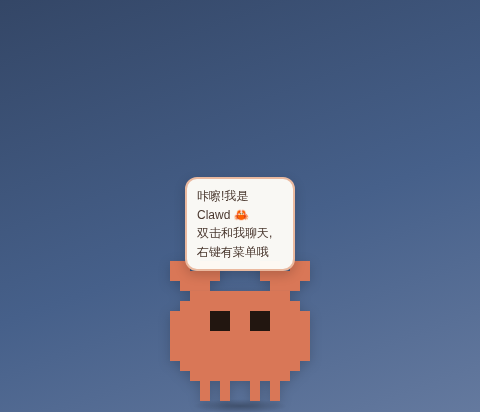
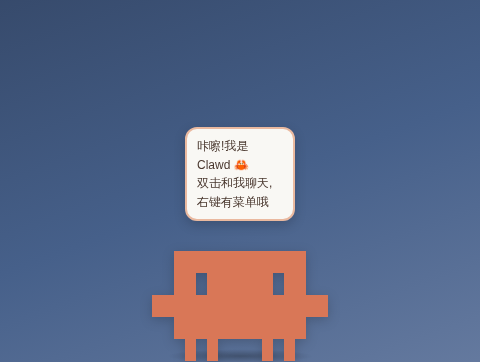
造型改为官方原版:1:1 复刻 Claude Code 启动画面字符画
- 将官方 Unicode 半格字符画( ▐▛███▜▌ / ▝▜█████▛▘ / ▘▘ ▝▝ )逐格展开为
  18x5 亚格像素图,保留终端 1:2 亚格宽高比,零改动
- 眼睛保留原版负空间缺口;眨眼/睡觉用同色眼皮盖住缺口,不改造型
- 移除此前自创的蟹钳/方块眼等元素;托盘图标同步为官方像素图
- 更新 README 与截图

Claude-Session: https://claude.ai/code/session_01Mf4oSzVMUmaVxkpLH53Hpv

Changed region(s): [[0.3125, 0.3343, 0.6875, 1.0]]

diff --git a/renderer/index.html b/renderer/index.html
@@ -16,65 +16,42 @@
 
     <div id="shadow"></div>
 
-    <!-- Clawd:Claude Code 的经典 8-bit 像素螃蟹 🦀
-         网格 16x14,每格 10px,viewBox 160x140 -->
+    <!-- 官方 Clawd:Claude Code 启动画面的原版字符画
+            ▐▛███▜▌
+           ▝▜█████▛▘
+             ▘▘ ▝▝
+         逐格展开为 18x5 亚格网格(终端半格字符,亚格宽高比 1:2),
+         每亚格 12x24,viewBox 216x120。眼睛是原版的负空间缺口,不加任何东西。 -->
     <div id="pet" class="interactive">
-      <svg id="pet-svg" viewBox="0 0 160 140" xmlns="http://www.w3.org/2000/svg"
+      <svg id="pet-svg" viewBox="0 0 216 120" xmlns="http://www.w3.org/2000/svg"
            shape-rendering="crispEdges">
         <g fill="#D97757">
-          <!-- 两只钳子(带开口的像素蟹钳) -->
-          <g id="claws">
-            <rect x="10"  y="0"  width="20" height="10" />
-            <rect x="40"  y="0"  width="20" height="10" />
-            <rect x="10"  y="10" width="50" height="10" />
-            <rect x="20"  y="20" width="30" height="10" />
-            <rect x="100" y="0"  width="20" height="10" />
-            <rect x="130" y="0"  width="20" height="10" />
-            <rect x="100" y="10" width="50" height="10" />
-            <rect x="110" y="20" width="30" height="10" />
-          </g>
-
-          <!-- 身体(圆角像素块) -->
           <g id="body-px">
-            <rect x="30" y="30"  width="100" height="10" />
-            <rect x="20" y="40"  width="120" height="10" />
-            <rect x="10" y="50"  width="140" height="50" />
-            <rect x="20" y="100" width="120" height="10" />
-            <rect x="30" y="110" width="100" height="10" />
+            <!-- 行0:头顶  ▐▛███▜▌ 的上半 -->
+            <rect x="36" y="0" width="144" height="24" />
+            <!-- 行1:脸,两个眼睛缺口(▛▜ 的缺角)在 x=60 和 x=144 -->
+            <rect x="36"  y="24" width="24" height="24" />
+            <rect x="72"  y="24" width="72" height="24" />
+            <rect x="156" y="24" width="24" height="24" />
+            <!-- 行2:最宽的一行,两侧探出的小钳尖(▝ 和 ▘) -->
+            <rect x="12" y="48" width="192" height="24" />
+            <!-- 行3:身体下沿 -->
+            <rect x="36" y="72" width="144" height="24" />
           </g>
 
-          <!-- 四只小短腿 -->
+          <!-- 行4:四只小脚  ▘▘ ▝▝ -->
           <g id="legs">
-            <rect x="40"  y="120" width="10" height="20" />
-            <rect x="60"  y="120" width="10" height="20" />
-            <rect x="90"  y="120" width="10" height="20" />
-            <rect x="110" y="120" width="10" height="20" />
+            <rect x="48"  y="96" width="12" height="24" />
+            <rect x="72"  y="96" width="12" height="24" />
+            <rect x="132" y="96" width="12" height="24" />
+            <rect x="156" y="96" width="12" height="24" />
           </g>
-        </g>
 
-        <!-- 脸(叠在身体上) -->
-        <g id="face" fill="#221610">
-          <!-- 默认方块眼 -->
-          <g id="eyes">
-            <rect class="eye" x="50" y="50" width="20" height="20" />
-            <rect class="eye" x="90" y="50" width="20" height="20" />
+          <!-- 眨眼/睡觉:用身体同色把眼睛缺口盖住(= 闭眼),不改变造型 -->
+          <g id="eyelids">
+            <rect x="60"  y="24" width="12" height="24" />
+            <rect x="144" y="24" width="12" height="24" />
           </g>
-          <!-- 开心眯眼 > < -->
-          <g id="happy-eyes">
-            <rect x="50" y="50" width="10" height="10" />
-            <rect x="60" y="60" width="10" height="10" />
-            <rect x="50" y="70" width="10" height="10" />
-            <rect x="100" y="50" width="10" height="10" />
-            <rect x="90"  y="60" width="10" height="10" />
-            <rect x="100" y="70" width="10" height="10" />
-          </g>
-          <!-- 睡觉的一字眼 -->
-          <g id="sleep-eyes">
-            <rect x="40" y="60" width="30" height="10" />
-            <rect x="90" y="60" width="30" height="10" />
-          </g>
-          <!-- 被拎起来时的 o 嘴(惊讶) -->
-          <rect id="mouth-o" x="70" y="85" width="20" height="10" />
         </g>
       </svg>
     </div>

diff --git a/scripts/gen-icon.js b/scripts/gen-icon.js
@@ -1,39 +1,34 @@
 // 生成 assets/icon.png(托盘 / 窗口图标)—— 零依赖,纯 Node 实现
-// 图案:Clawd,Claude Code 的经典 8-bit 像素螃蟹 🦀
+// 图案:官方 Clawd,Claude Code 启动画面字符画的逐格展开:
+//    ▐▛███▜▌
+//   ▝▜█████▛▘
+//     ▘▘ ▝▝
 // 用法:node scripts/gen-icon.js
 
 const zlib = require('zlib');
 const fs = require('fs');
 const path = require('path');
 
-// 与 renderer/index.html 中的 SVG 同一张 16x14 像素图
-// X = 橙色身体,E = 黑色眼睛,. = 透明
+// 与 renderer/index.html 中的 SVG 同一张 18x5 亚格图
+// X = 橙色,. = 透明(眼睛是原版的负空间缺口)
 const GRID = [
-  '.XX.XX....XX.XX.',
-  '.XXXXX....XXXXX.',
-  '..XXX......XXX..',
-  '...XXXXXXXXXX...',
-  '..XXXXXXXXXXXX..',
-  '.XXXXEEXXEEXXXX.',
-  '.XXXXEEXXEEXXXX.',
-  '.XXXXXXXXXXXXXX.',
-  '.XXXXXXXXXXXXXX.',
-  '.XXXXXXXXXXXXXX.',
-  '..XXXXXXXXXXXX..',
-  '...XXXXXXXXXX...',
-  '....X.X..X.X....',
-  '....X.X..X.X....',
+  '...XXXXXXXXXXXX...',
+  '...XX.XXXXXX.XX...',
+  '.XXXXXXXXXXXXXXXX.',
+  '...XXXXXXXXXXXX...',
+  '....X.X....X.X....',
 ];
 
-const CELL = 4;                       // 每格 4px
-const W = GRID[0].length * CELL;      // 64
-const H = GRID.length * CELL;         // 56
+// 终端半格字符的亚格宽高比是 1:2
+const CELL_W = 3;
+const CELL_H = 6;
+const W = GRID[0].length * CELL_W;    // 54
+const H = GRID.length * CELL_H;       // 30
 const SIZE = 64;                      // 画布 64x64,居中
 const OFF_X = Math.floor((SIZE - W) / 2);
 const OFF_Y = Math.floor((SIZE - H) / 2);
 
 const ORANGE = [217, 119, 87, 255]; // #D97757
-const DARK = [34, 22, 16, 255];     // 眼睛
 const NONE = [0, 0, 0, 0];
 
 // ---------- 最小 PNG 编码器 ----------
@@ -100,13 +95,10 @@ function encodePNG(width, height, rgba) {
 const rgba = Buffer.alloc(SIZE * SIZE * 4);
 
 function colorAt(px, py) {
-  const gx = Math.floor((px - OFF_X) / CELL);
-  const gy = Math.floor((py - OFF_Y) / CELL);
+  const gx = Math.floor((px - OFF_X) / CELL_W);
+  const gy = Math.floor((py - OFF_Y) / CELL_H);
   if (gy < 0 || gy >= GRID.length || gx < 0 || gx >= GRID[0].length) return NONE;
-  const ch = GRID[gy][gx];
-  if (ch === 'X') return ORANGE;
-  if (ch === 'E') return DARK;
-  return NONE;
+  return GRID[gy][gx] === 'X' ? ORANGE : NONE;
 }
 
 for (let y = 0; y < SIZE; y++) {

diff --git a/renderer/style.css b/renderer/style.css
@@ -38,9 +38,9 @@ body.preview {
   position: absolute;
   left: 50%;
   bottom: 2px;
-  width: 160px;
-  height: 160px;
-  margin-left: -80px;
+  width: 198px;
+  height: 110px;
+  margin-left: -99px;
   cursor: grab;
   transform-origin: 50% 100%;
   animation: bob 3.4s ease-in-out infinite;
@@ -56,11 +56,6 @@ body.flip #pet-svg {
   transform: scaleX(-1);
 }
 
-/* 钳子:像素风一格一格地上下夹动 */
-#claws {
-  animation: claw-bob 2.6s steps(1, end) infinite;
-}
-
 /* 走路时小短腿快速倒腾 */
 body.walk #legs {
   animation: skitter 0.24s steps(1, end) infinite;
@@ -71,9 +66,9 @@ body.walk #legs {
   position: absolute;
   left: 50%;
   bottom: 0;
-  width: 96px;
+  width: 150px;
   height: 14px;
-  margin-left: -48px;
+  margin-left: -75px;
   border-radius: 50%;
   background: radial-gradient(ellipse at center, rgba(0, 0, 0, 0.28) 0%, rgba(0, 0, 0, 0) 70%);
   animation: shadow-bob 3.4s ease-in-out infinite;
@@ -86,44 +81,15 @@ body.fall #shadow {
   transform: scale(0.6);
 }
 
-/* ---------- 眼睛 / 表情 ---------- */
+/* ---------- 眼睛(原版负空间缺口) ----------
+   眨眼/睡觉 = 用身体同色的"眼皮"盖住缺口,造型本身零改动 */
 
-.eye {
-  transform-box: fill-box;
-  transform-origin: center;
-  transition: transform 0.08s ease;
-}
-
-body.blink .eye {
-  transform: scaleY(0.08);
-}
-
-body.drag .eye {
-  transform: scale(1.15, 1.35);
-}
-
-#happy-eyes,
-#sleep-eyes,
-#mouth-o {
+#eyelids {
   display: none;
 }
 
-body.happy #eyes,
-body.sleep #eyes {
-  display: none;
-}
-
-body.happy #happy-eyes {
-  display: block;
-}
-
-body.sleep #sleep-eyes {
-  display: block;
-}
-
-/* 拖拽 / 下落时露出 o 嘴(惊讶) */
-body.drag #mouth-o,
-body.fall #mouth-o {
+body.blink #eyelids,
+body.sleep #eyelids {
   display: block;
 }
 
@@ -251,14 +217,6 @@ body.wiggle #pet {
 @keyframes shadow-bob {
   0%, 100% { transform: scale(1); opacity: 1; }
   50% { transform: scale(0.92); opacity: 0.85; }
-}
-
-@keyframes claw-bob {
-  0%, 100% { transform: translateY(0); }
-  46% { transform: translateY(0); }
-  50% { transform: translateY(-6px); }
-  62% { transform: translateY(-6px); }
-  66% { transform: translateY(0); }
 }
 
 @keyframes skitter {

diff --git a/README.md b/README.md
@@ -1,20 +1,28 @@
 # 🦀 Clawd 桌面宠物
 
-**Clawd** —— Claude Code 的经典 8-bit 像素螃蟹吉祥物,现在住进你的桌面!基于 Electron 的透明置顶桌面宠物,会眨眼、横着散步、挥钳子、睡觉,还能(可选地)接入 Claude API 陪你真·聊天。
+**Clawd** —— Claude Code 官方启动画面上的那只小家伙,现在住进你的桌面!基于 Electron 的透明置顶桌面宠物,会眨眼、散步、睡觉,还能(可选地)接入 Claude API 陪你真·聊天。
 
 ![截图](docs/screenshot.png)
 
-> Clawd(Claude + Claw 的谐音梗)最早出现在 Claude Code 的欢迎界面 "Welcome, Claw'd"。这是一个粉丝自制项目,与 Anthropic 官方无关。
+造型 1:1 复刻 Claude Code 终端里的官方字符画,零改动:
+
+```
+ ▐▛███▜▌
+▝▜█████▛▘
+  ▘▘ ▝▝
+```
+
+> Clawd(Claude + Claw 的谐音梗)是 Claude Code 的吉祥物,每次启动 `claude` 都能在终端里见到它。这是一个粉丝自制项目,与 Anthropic 官方无关。
 
 ## ✨ 功能
 
 - **透明无边框窗口**,始终置顶,悬浮在所有窗口之上
-- **原汁原味的像素造型**:16×14 像素网格手工还原,方块眼睛、带开口的蟹钳、四只小短腿
-- **自主行为**:发呆、眨眼、钳子一格一格地夹动、横着散步(小短腿快速倒腾)、随机碎碎念、久不理它会睡着 💤
+- **官方原版造型**:把启动画面的 Unicode 半格字符逐格展开成 18×5 亚格像素图(保留 1:2 的终端亚格宽高比),连两只眼睛都是原版的负空间缺口——透过缺口能看到你的桌面
+- **自主行为**:发呆、眨眼(用身体同色"眼皮"盖住眼睛缺口,造型零改动)、左右散步(四只小脚快速倒腾)、随机碎碎念、久不理它会睡着 💤
 - **丰富互动**
-  - 🖱 单击 —— 开心地蹦一下,眼睛变成像素 `> <`
+  - 🖱 单击 —— 开心地蹦一下
   - 💬 双击 —— 打开聊天输入框
-  - ✋ 按住拖拽 —— 把它拎到屏幕任何地方(会瞪大眼睛张 o 嘴),松手后掉回任务栏上方,落地压扁回弹
+  - ✋ 按住拖拽 —— 把它拎到屏幕任何地方,松手后掉回任务栏上方,落地压扁回弹
   - 🥰 在它身上快速蹭鼠标 —— 摸头,会冒爱心
   - 📋 右键 —— 菜单(打招呼 / 散步 / 睡觉 / 聊天 / 退出)
 - **点击穿透**:窗口透明区域不挡鼠标,只有螃蟹本体可以点到(Windows / macOS)
@@ -60,8 +68,8 @@ npm start
 ├── main.js            # Electron 主进程:窗口、拖拽、托盘、菜单、Claude API
 ├── preload.js         # contextBridge 安全桥接
 ├── renderer/
-│   ├── index.html     # Clawd 本体(16x14 像素网格 SVG)
-│   ├── style.css      # 全部动画:呼吸、夹钳、碎步、下落、压扁……(steps() 像素风)
+│   ├── index.html     # Clawd 本体(官方字符画逐格展开的 SVG)
+│   ├── style.css      # 全部动画:呼吸、碎步、下落、压扁……(steps() 像素风)
 │   └── pet.js         # 行为状态机:idle / walk / drag / fall / sleep / happy / chat
 ├── scripts/
 │   └── gen-icon.js    # 零依赖生成托盘图标 PNG(与本体同一张像素图)
@@ -72,7 +80,7 @@ npm start
 
 - **Linux**:`setIgnoreMouseEvents` 的事件转发不受支持,因此 Linux 上窗口透明区域会拦截鼠标(窗口本身很小,影响不大);托盘依赖桌面环境支持。
 - **macOS**:启动后会自动隐藏 Dock 图标,从托盘(菜单栏)管理。
-- 想改螃蟹大小 / 颜色:改 `renderer/index.html` 里的像素 rect 和 `main.js` 里的 `WIN_W / WIN_H` 即可;托盘图标同步改 `scripts/gen-icon.js` 里的 `GRID` 后运行 `npm run icon`。
+- 想改大小 / 颜色:改 `renderer/index.html` 里的像素 rect 和 `main.js` 里的 `WIN_W / WIN_H` 即可;托盘图标同步改 `scripts/gen-icon.js` 里的 `GRID` 后运行 `npm run icon`。
 
 ## 📜 License
 
